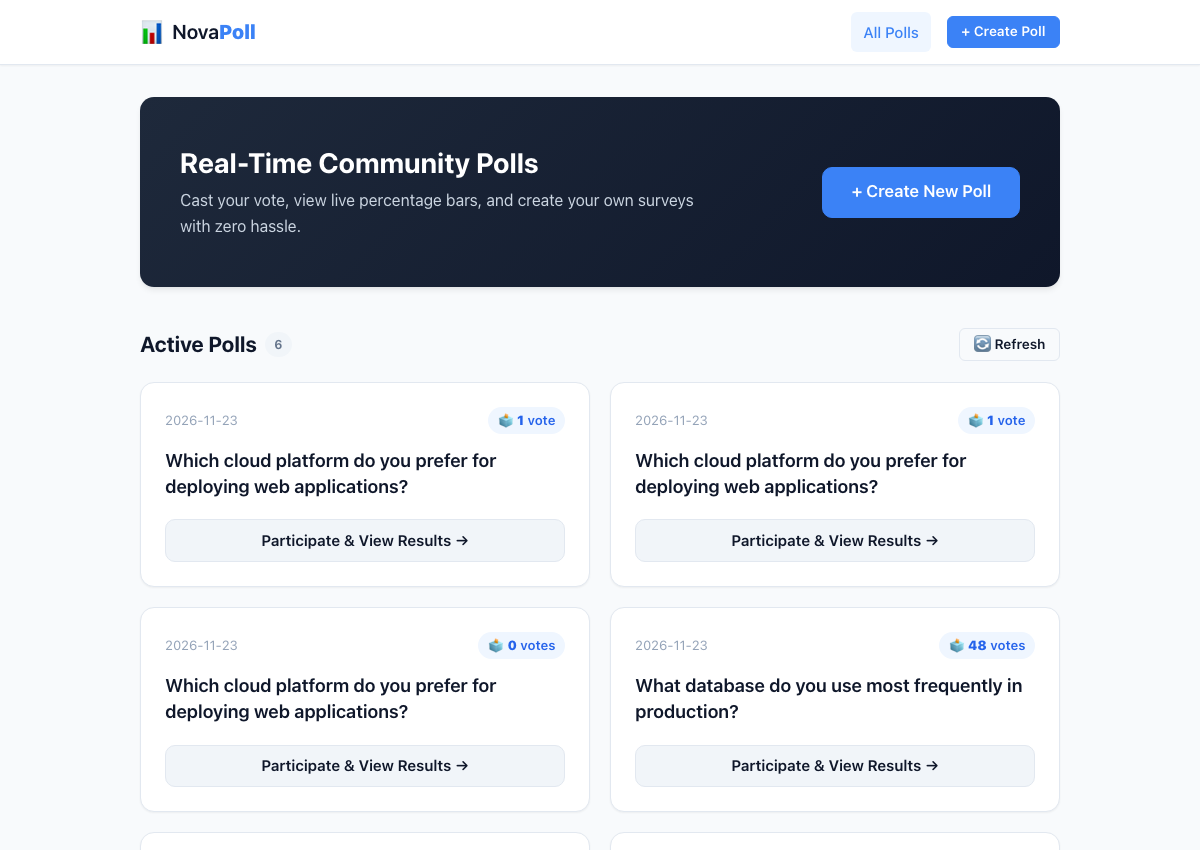
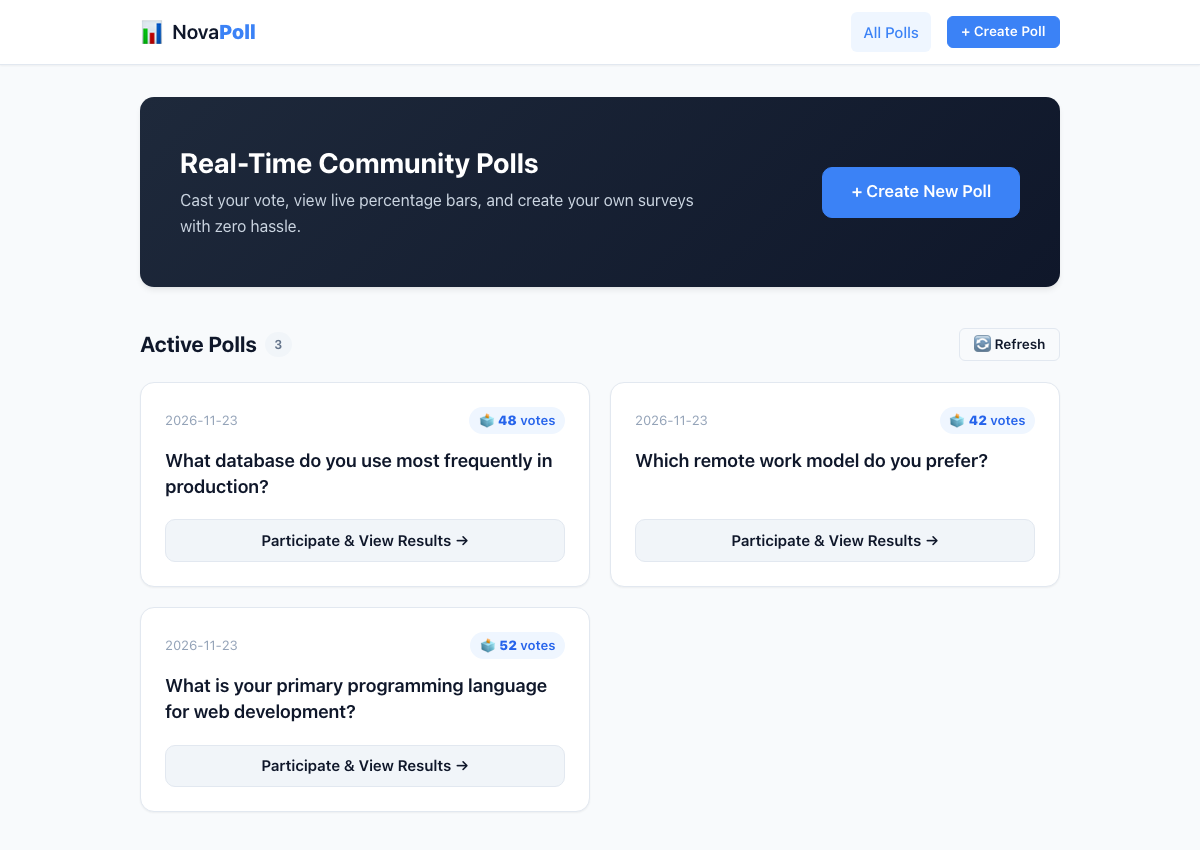
chore: remove unused imports, clean duplicate test polls, and refresh home screenshot

diff --git a/capture_and_verify.py b/capture_and_verify.py
@@ -19,11 +19,20 @@ def run():
         page = context.new_page()
 
         print("1. Testing Poll Creation...")
+        # Clean up any previous test polls with this exact question to avoid duplicates
+        import sqlite3
+        from db import get_db_path
+        conn = sqlite3.connect(get_db_path())
+        conn.execute("PRAGMA foreign_keys = ON;")
+        question_text = "Which cloud platform do you prefer for deploying web applications?"
+        conn.execute("DELETE FROM polls WHERE question = ?", (question_text,))
+        conn.commit()
+        conn.close()
+
         page.goto(f"{BASE_URL}/create")
         page.wait_for_selector("#create-poll-form")
 
         # Fill question
-        question_text = "Which cloud platform do you prefer for deploying web applications?"
         page.fill("#question-input", question_text)
 
         # Add 2 more options (initially 2, reaching 4 options)
@@ -123,7 +132,15 @@ def run():
         print(f"   Saved {screenshot5_path}")
 
         browser.close()
-        print("All screenshots successfully captured!")
+
+        # Clean up test poll after verification to keep database clean
+        conn = sqlite3.connect(get_db_path())
+        conn.execute("PRAGMA foreign_keys = ON;")
+        conn.execute("DELETE FROM polls WHERE question = ?", (question_text,))
+        conn.commit()
+        conn.close()
+
+        print("All screenshots successfully captured and test poll cleaned up!")
 
 if __name__ == "__main__":
     run()

diff --git a/app.py b/app.py
@@ -18,8 +18,6 @@ from flask import (
     abort,
     g,
     Response,
-    redirect,
-    url_for,
 )
 
 # Load environment variables

diff --git a/README.md b/README.md
@@ -279,31 +279,37 @@ Add the following in your Render service's **Environment** tab:
 
 ## Screenshots
 
-### 1. Poll Creation Form
+### 1. Home Page
+Live community poll explorer displaying real-time vote totals and active poll cards:
+![Home Page](screenshots/00-home-page.png)
+
+---
+
+### 2. Poll Creation Form
 Dynamic option builder allowing 2 to 6 unique choices with live character count:
 ![Poll Creation Form](screenshots/01-create-poll.png)
 
 ---
 
-### 2. Public Vote Casting
+### 3. Public Vote Casting
 Accessible radio button selection with modern cards and responsive layout:
 ![Vote Casting](screenshots/02-vote-casting.png)
 
 ---
 
-### 3. Live Results View
+### 4. Live Results View
 Horizontal percentage bars with smooth transitions, largest-remainder math, and personal vote highlight:
 ![Live Results View](screenshots/03-results-view.png)
 
 ---
 
-### 4. Duplicate Vote Notice
+### 5. Duplicate Vote Notice
 Friendly alert and 409 rejection when attempting to vote a second time, leaving vote counts unchanged:
 ![Duplicate Vote Notice](screenshots/04-duplicate-vote-notice.png)
 
 ---
 
-### 5. Mobile View (375px)
+### 6. Mobile View (375px)
 Fluid responsive layout optimized for mobile screens:
 ![Mobile View](screenshots/05-mobile-view.png)
 
